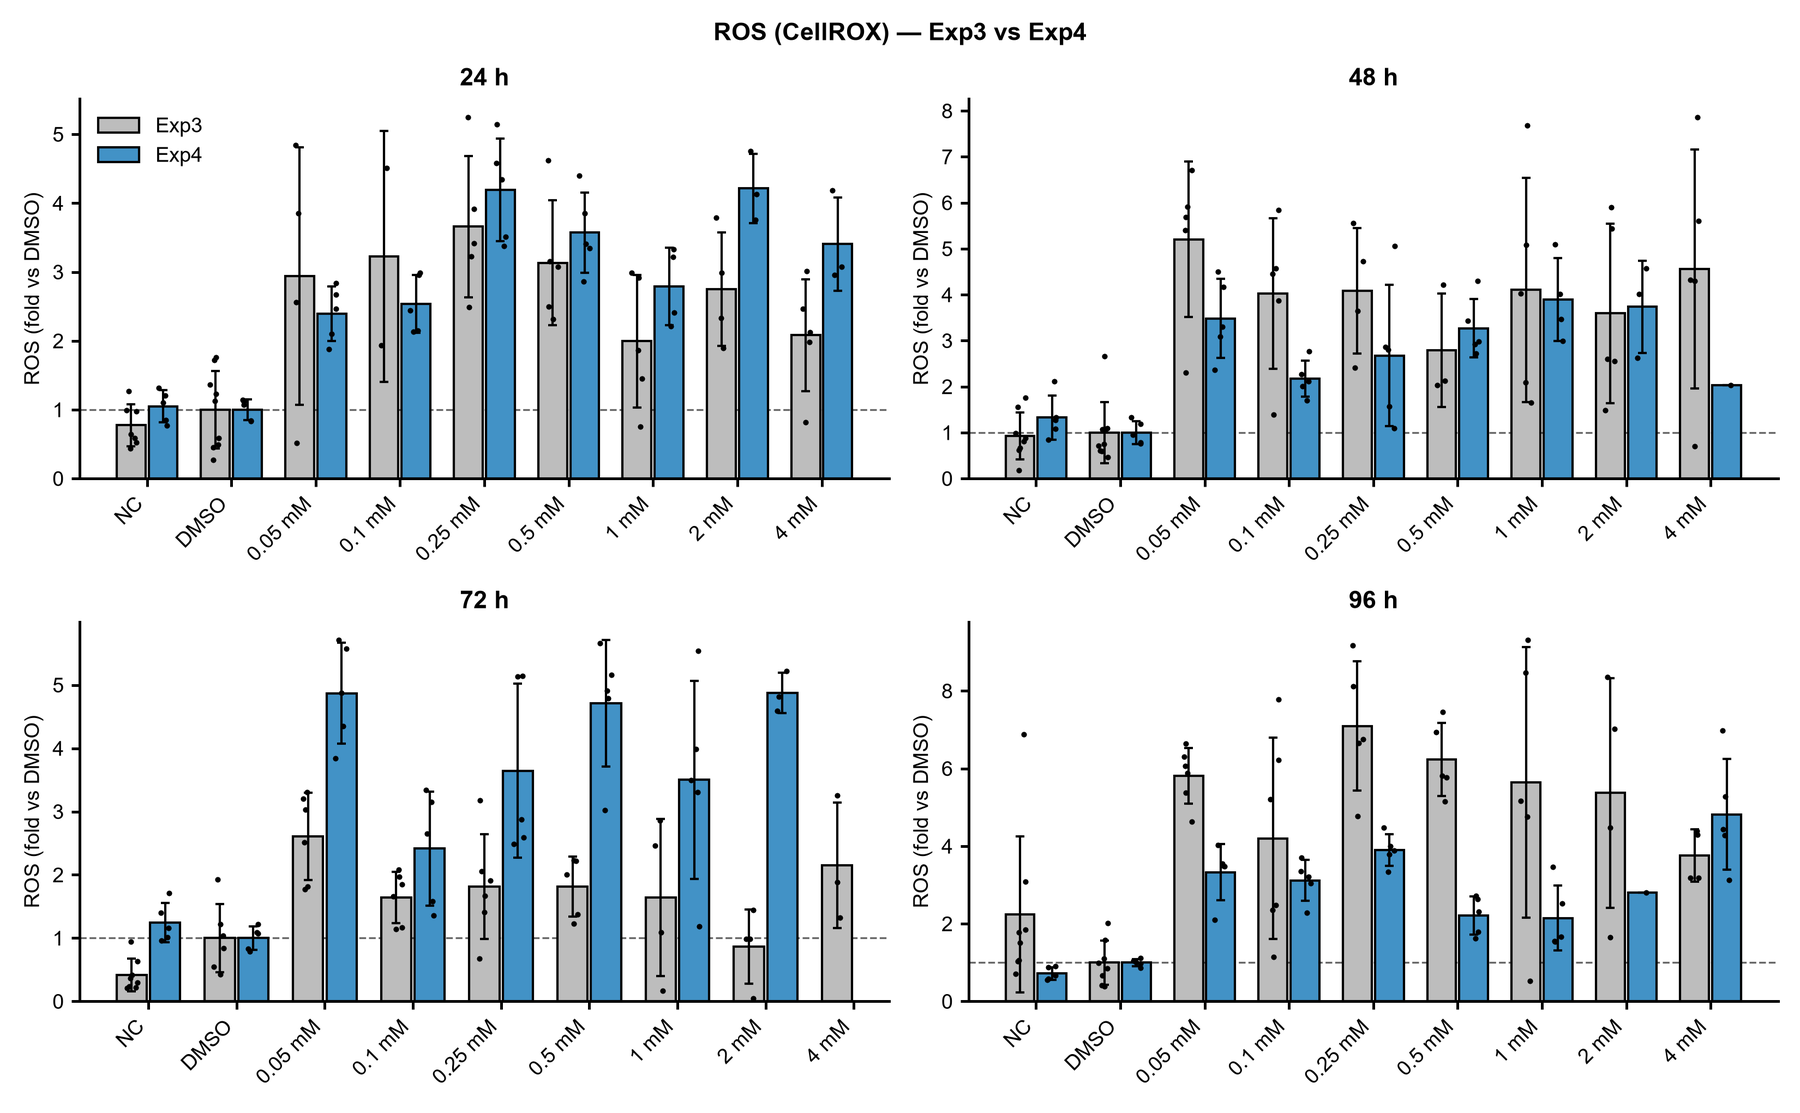
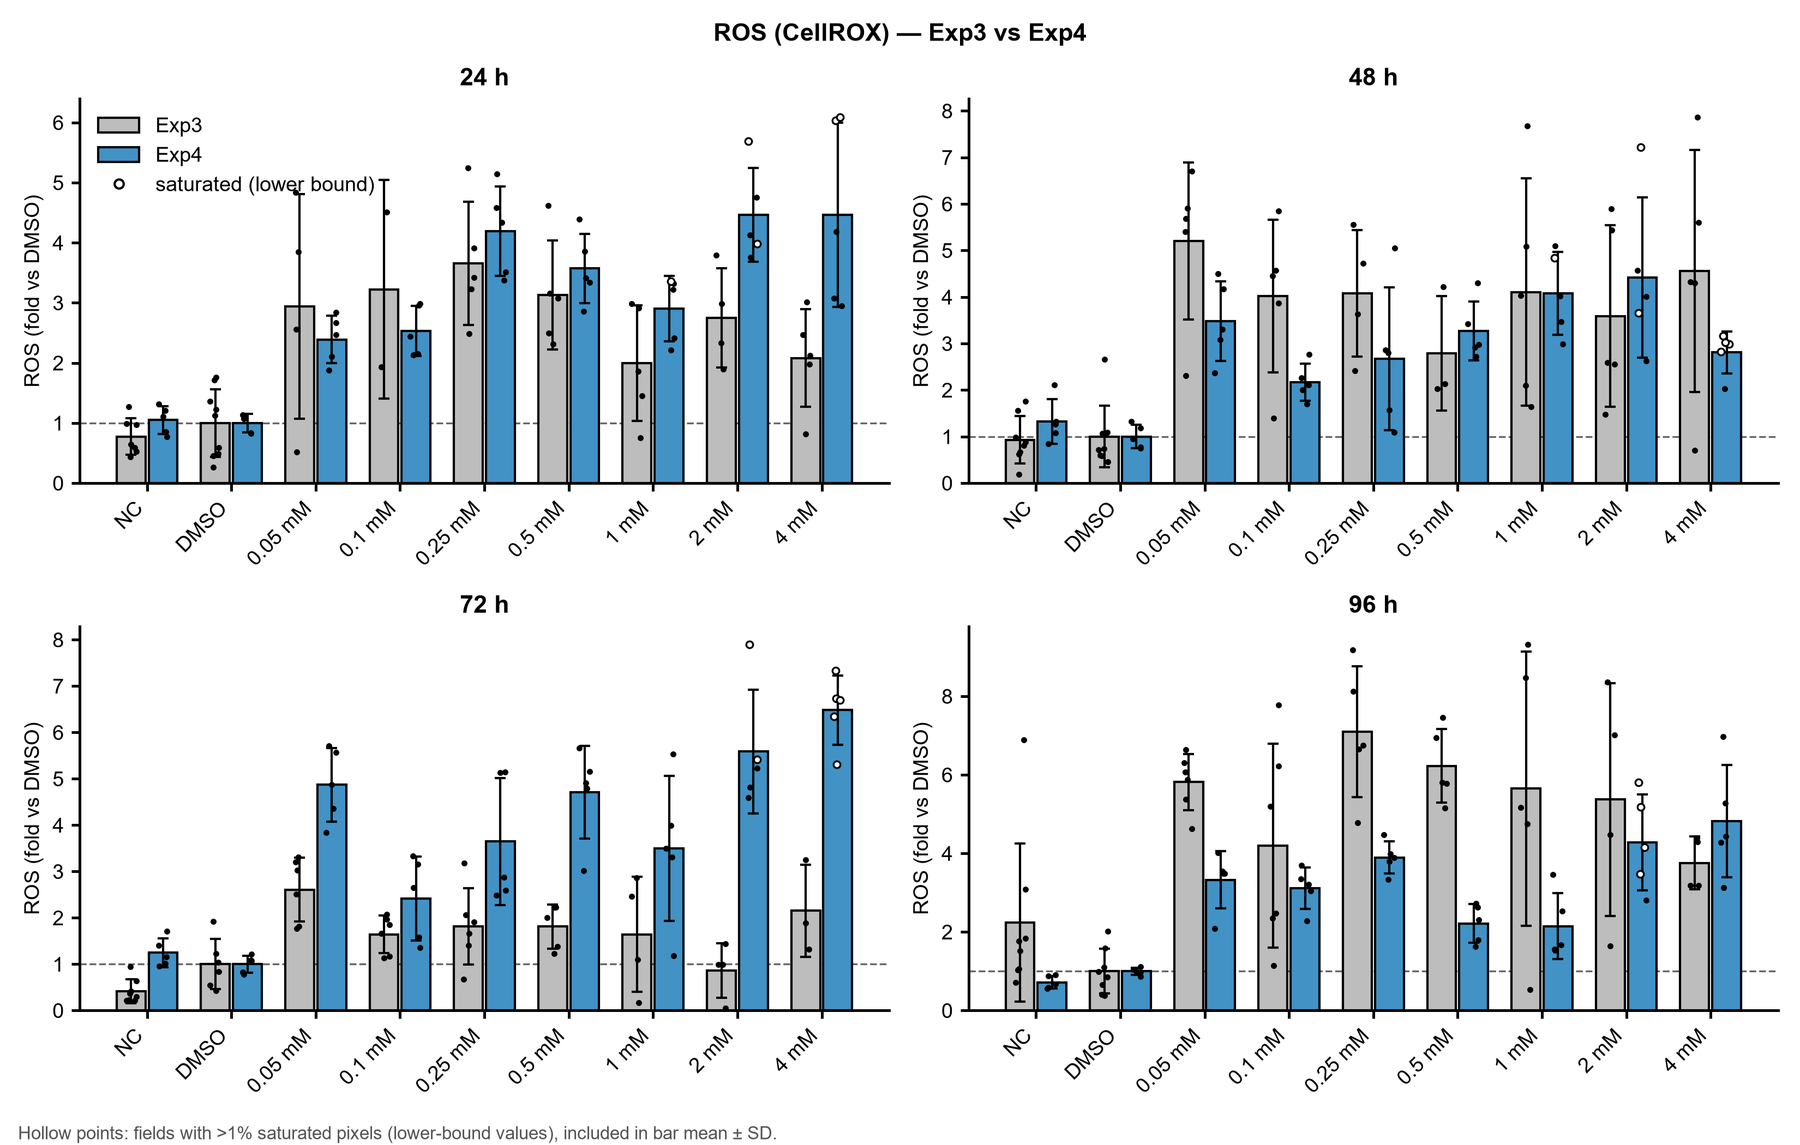
Add saturated Exp4 fields as lower-bound points

diff --git a/index.html b/index.html
@@ -101,8 +101,8 @@ footer{color:var(--muted);font-size:13px;border-top:1px solid var(--line);paddin
 
 <section aria-label="Data analysed">
   <div class="stats">
-    <div class="stat"><b>33,333</b><span>cells segmented and measured across both experiments</span></div>
-    <div class="stat"><b>539</b><span>image fields / wells, 24–96 h</span></div>
+    <div class="stat"><b>36,719</b><span>cells segmented and measured across both experiments</span></div>
+    <div class="stat"><b>571</b><span>image fields / wells, 24–96 h</span></div>
     <div class="stat"><b>2</b><span>independent experiments (Exp3, Exp4) analysed with the same approach</span></div>
   </div>
 </section>
@@ -139,7 +139,7 @@ footer{color:var(--muted);font-size:13px;border-top:1px solid var(--line);paddin
 
 <section id="results">
   <h2>Results</h2>
-  <p class="lede">Each dot is one field (Exp3 CellROX, Exp4) or one well (Exp3 MitoSOX), shown as fold of DMSO at the same time point. Bars are mean ± SD.</p>
+  <p class="lede">Each dot is one field (Exp3 CellROX, Exp4) or one well (Exp3 MitoSOX), shown as fold of DMSO at the same time point. Bars are mean ± SD. Hollow points are Exp4 fields with more than 1% saturated pixels; their true value is at least as high as shown.</p>
   <div class="tabs" role="tablist" aria-label="Result graphs">
     <button role="tab" id="t-cmp" aria-controls="p-cmp" aria-selected="true">Exp3 vs Exp4</button>
     <button role="tab" id="t-e4" aria-controls="p-e4" aria-selected="false">Exp4</button>
@@ -156,11 +156,11 @@ footer{color:var(--muted);font-size:13px;border-top:1px solid var(--line);paddin
   <div class="panel" role="tabpanel" id="p-e4" aria-labelledby="t-e4" hidden>
     <figure class="fig">
       <div class="frame"><img src="img/g_exp4_ros.png" alt="Exp4 CellROX fold vs DMSO by condition and time" loading="lazy"></div>
-      <figcaption><b>Exp4, CellROX.</b> 168 fields, 16,979 cells. Raw 12-bit images, corrected for exposure time.</figcaption>
+      <figcaption><b>Exp4, CellROX.</b> 200 fields, 20,365 cells. Raw 12-bit images, corrected for exposure time.</figcaption>
     </figure>
     <figure class="fig">
       <div class="frame"><img src="img/g_exp4_mitosox.png" alt="Exp4 MitoSOX fold vs DMSO by condition and time" loading="lazy"></div>
-      <figcaption><b>Exp4, MitoSOX.</b> Same cells as above. Mitochondrial superoxide rose 2–4-fold with 2-EHA. Fields with more than 1% saturated pixels were excluded, so a few bars have fewer points.</figcaption>
+      <figcaption><b>Exp4, MitoSOX.</b> Same cells as above. Mitochondrial superoxide rose 2–7-fold with 2-EHA, highest at 4 mM and in the positive control. Saturated fields (hollow) are kept as lower bounds.</figcaption>
     </figure>
   </div>
 
@@ -189,7 +189,7 @@ footer{color:var(--muted);font-size:13px;border-top:1px solid var(--line);paddin
     <div class="card"><b>Cells are found without the readout</b><p>Segmentation does not depend on how bright ROS is in each cell, so dim cells are not dropped and the comparison between doses is not biased.</p></div>
     <div class="card"><b>Raw data, no display edits</b><p>Exp4 was measured on the raw 12-bit files and divided by exposure time. Brightness-adjusted figure images were never measured.</p></div>
     <div class="card"><b>One fixed setting for everything</b><p>The same model and parameters were used for every condition, time point and field, with no per-image tuning.</p></div>
-    <div class="card"><b>Saturation handled openly</b><p>Saturated pixels are counted for every field. Exp4 fields above 1% were excluded; Exp3 wells above 5% are marked as lower bounds.</p></div>
+    <div class="card"><b>Saturation handled openly</b><p>Saturated pixels are counted for every field. Fields above 1% (Exp4) or 5% (Exp3) are shown as hollow points: their real signal can only be higher, so the dose effect is, if anything, underestimated.</p></div>
     <div class="card"><b>Every overlay checked</b><p>A QC overlay and the mask file are saved for each field. Fields where Cellpose covered less than half of the stained area were left out of the per-cell values.</p></div>
     <div class="card"><b>Normalised per cell</b><p>Values are averaged per cell, so a field with more cells does not look brighter just because it is more crowded.</p></div>
   </div>
